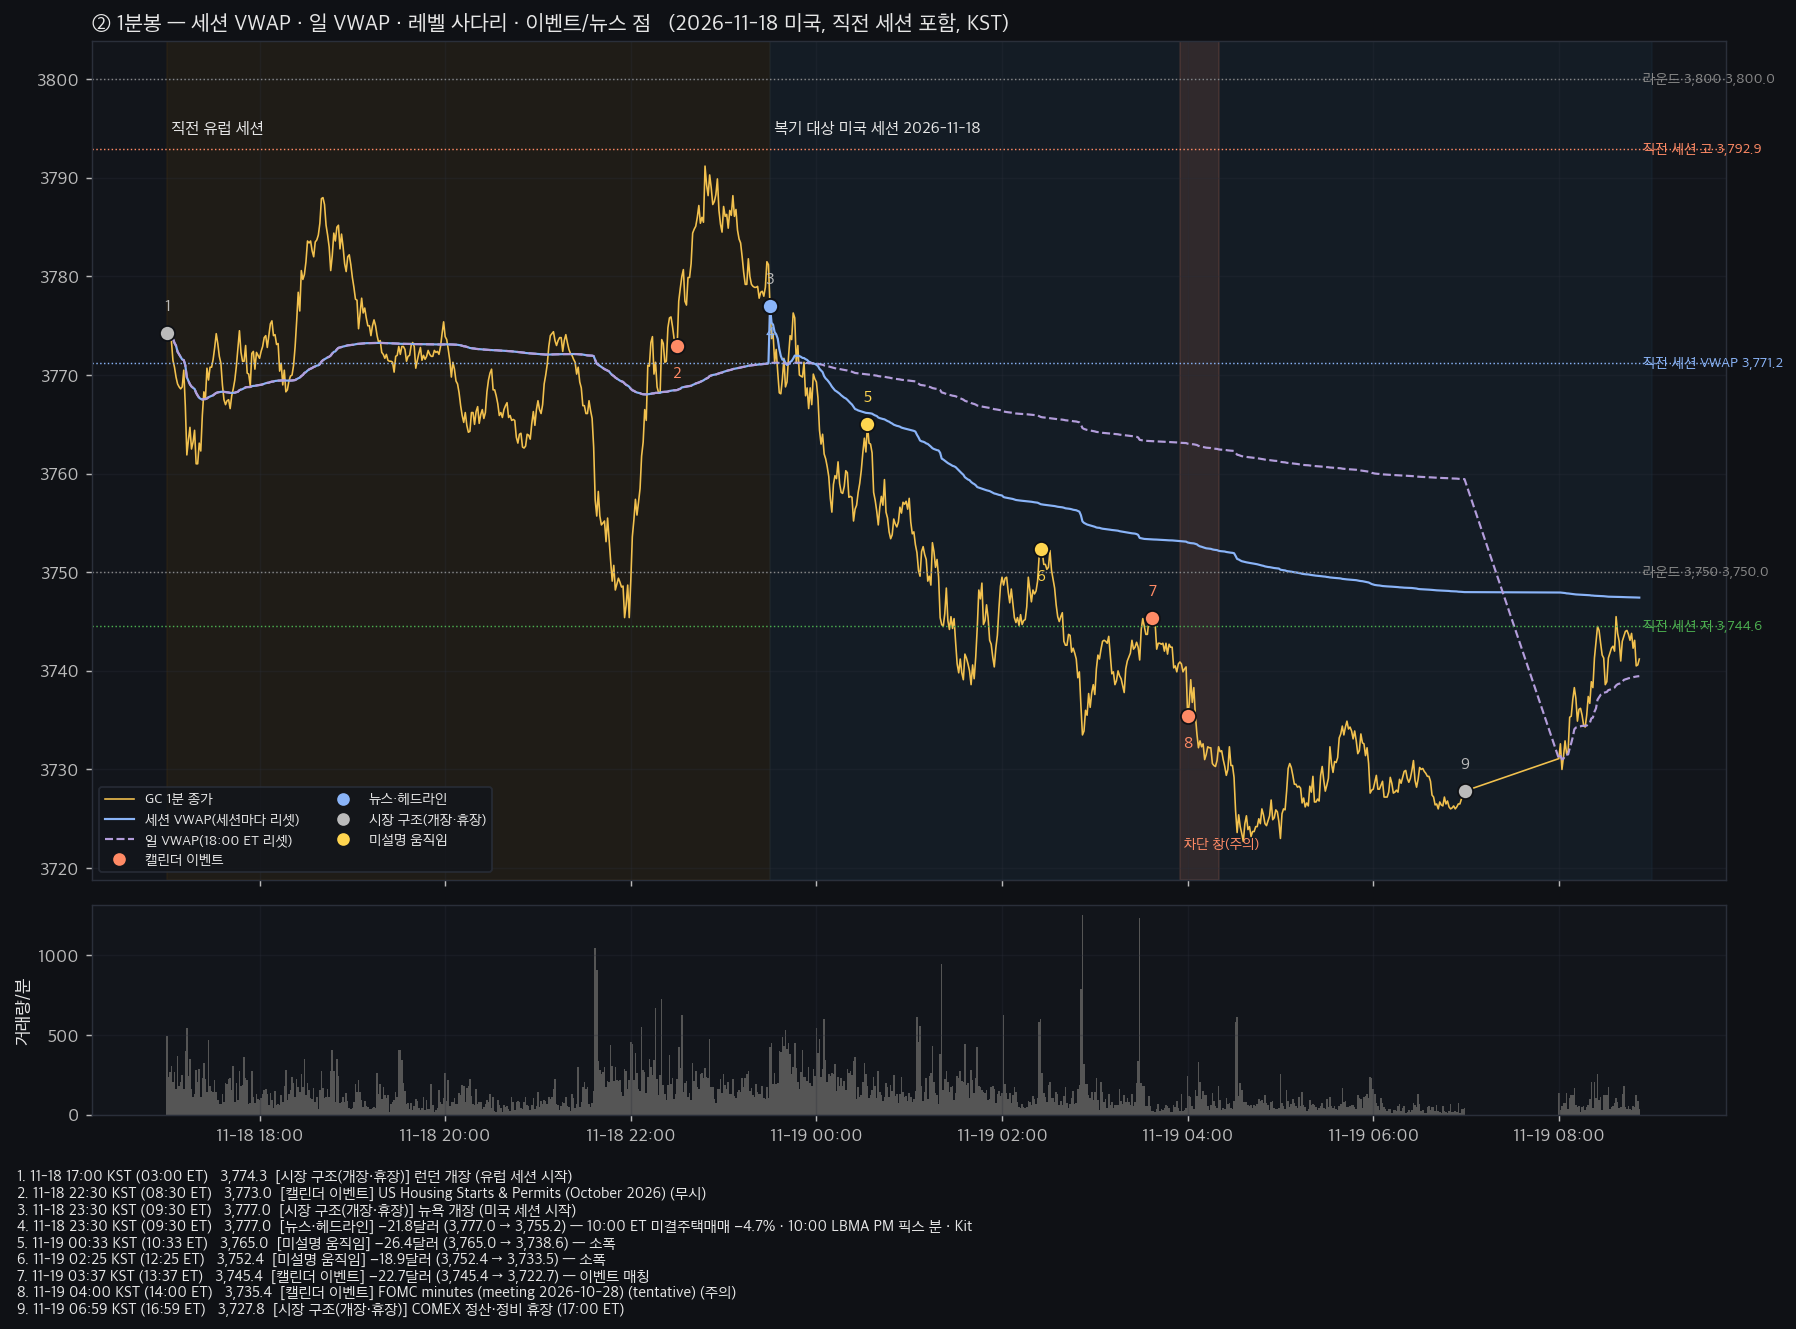
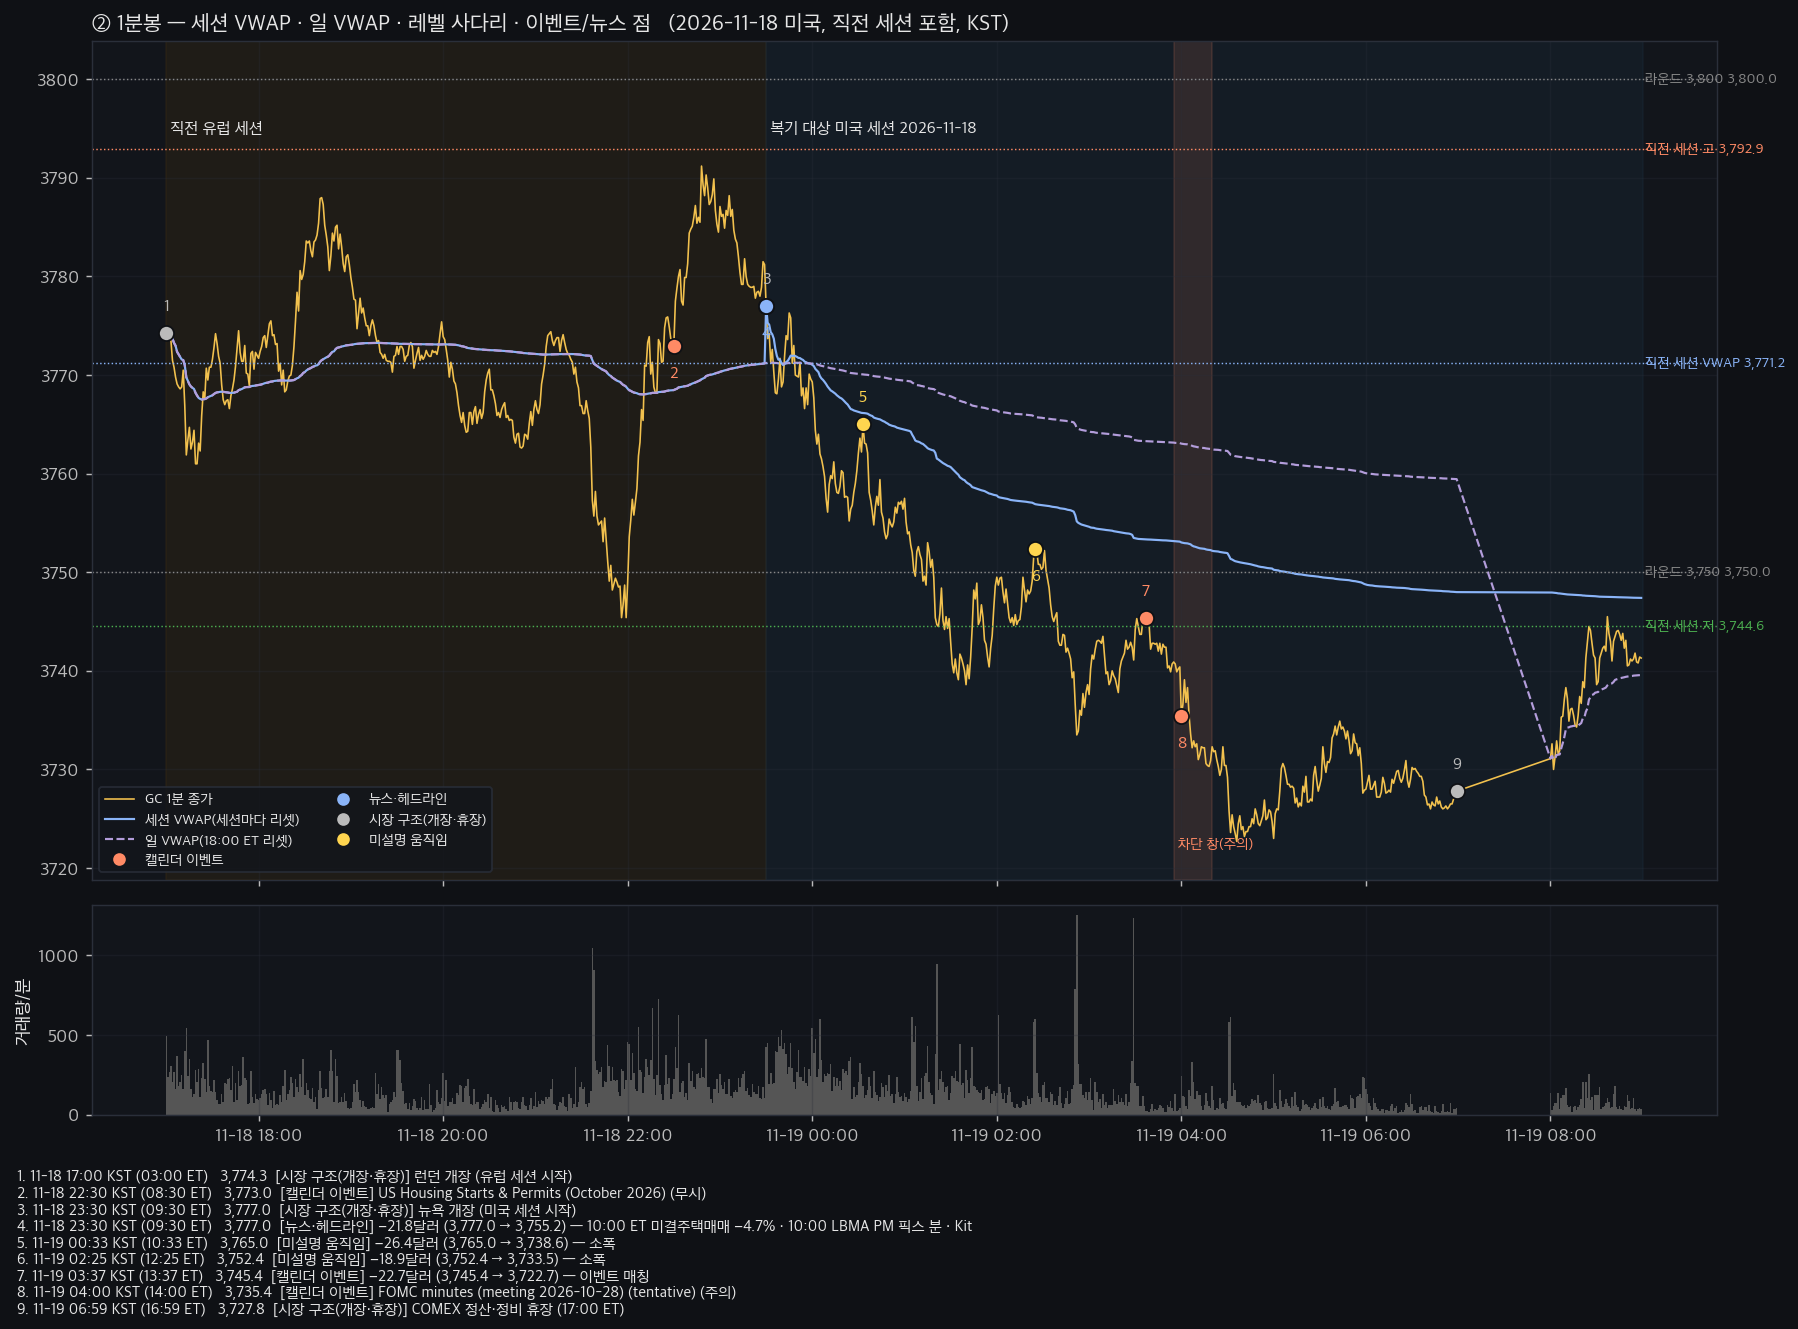
금–GVZ 상관 분석 + 동반 그림 우축 GVZ/VIX

diff --git a/analysis/2026-11-19_금–GVZ 상관관계.html b/analysis/2026-11-19_금–GVZ 상관관계.html
@@ -1,0 +1,38 @@
+<!doctype html><html lang="ko"><head><meta charset="utf-8"><meta name="viewport" content="width=device-width,initial-scale=1"><link rel="manifest" href="/gold-forecastor/manifest.webmanifest"><link rel="icon" type="image/png" sizes="192x192" href="/gold-forecastor/icon-192.png"><link rel="apple-touch-icon" href="/gold-forecastor/icon-192.png"><meta name="theme-color" content="#0f1115"><title>분석 2026-11-19_금–GVZ 상관관계</title><style>
+a.zoom img{max-width:100%;border:1px solid #2a2f3a;border-radius:6px;margin:6px 0;cursor:zoom-in}
+html{background:#0f1115}body{font-family:-apple-system,'Apple SD Gothic Neo','Malgun Gothic',sans-serif;margin:0 auto;max-width:960px;padding:12px 16px;color:#e6e6e6;line-height:1.5;background:#0f1115}
+h1{font-size:1.4em;color:#f2f2f2}.note h2{font-size:1.55em;border-bottom:2px solid #c9a227;padding-bottom:4px;margin-top:1.8em}h2{border-bottom:2px solid #c9a227;padding-bottom:4px;color:#f2f2f2}h3,h4{color:#f2f2f2}
+table{border-collapse:collapse;width:100%;font-size:.88em;display:block;overflow-x:auto;margin:.6em 0}
+th,td{border:1px solid #333a45;padding:4px 6px;text-align:left;vertical-align:top;background:#161920}th{background:#2a2614;color:#f2c14e}
+tr.ban td{background:#3a1c1c;color:#ffd6d6}tr.warn td{background:#3a2a12;color:#ffe2b8}tr.ign td{background:#1a1c21;color:#8d8d8d}
+.muted{color:#8d8d8d;font-size:.9em}.note{border:1px solid #2a2f3a;padding:8px 12px;border-radius:6px;overflow-x:auto;background:#12151b}
+a{color:#8ab4f8}a:visited{color:#b39ddb}code{background:#1f2430;color:#f2c14e;padding:0 3px;border-radius:3px}pre{background:#1f2430;padding:8px;border-radius:6px;overflow-x:auto}
+blockquote{border-left:3px solid #444c5c;margin:.6em 0;padding:.2em .9em;color:#cfd3da}hr{border:0;border-top:1px solid #2a2f3a}strong{color:#fff}
+details.co{margin:1em 0;border:1px solid #2a2f3a;border-left:4px solid #666;border-radius:6px;background:#161920;overflow:hidden}
+details.co>summary{cursor:pointer;font-weight:700;list-style:none;padding:.5em .9em;background:rgba(255,255,255,.06);font-size:1.02em;line-height:1.4;color:#f2f2f2}
+details.co>:not(summary){margin-left:.9em;margin-right:.9em}
+details.co ul{margin:.5em 0 .5em 1.1em;padding-left:.4em}details.co li{margin:.3em 0}details.co li>ul{margin-top:.15em}
+details.co p{margin:.7em 0;line-height:1.65}details.co>p:first-of-type{margin-top:.7em}details.co>p:last-of-type,details.co>ul:last-of-type,details.co>table:last-of-type{margin-bottom:.8em}
+details.co>summary::before{content:'▸ ';color:#999}details.co[open]>summary::before{content:'▾ '}
+details.co-warning{border-left-color:#d9822b}details.co-warning>summary{background:rgba(217,130,43,.18)}
+details.co-danger{border-left-color:#e5533d}details.co-danger>summary{background:rgba(229,83,61,.18)}
+details.co-info{border-left-color:#3a7bd5}details.co-info>summary{background:rgba(58,123,213,.18)}
+details.co-tip,details.co-success{border-left-color:#3cab6e}details.co-tip>summary,details.co-success>summary{background:rgba(60,171,110,.18)}
+</style></head><body><p><a href="../index.html">← 처음으로</a></p><h1>분석 — 2026-11-19_금–GVZ 상관관계</h1><div class="note"><h1>금–GVZ 상관관계 — VIX 대신 금 자체 변동성지수로 (Jason 11-19)</h1>
+<details class="co co-summary" open><summary>결론 한 줄</summary><p>GVZ(Cboe Gold Volatility Index, 금 ETF 옵션 내재변동성 30일)는 <strong>국면 따라 부호가 뒤집히는 지표</strong>다. 5년 전체는 +0.18(금이 오를 때 변동성도 오르는 2023~25 강세장 특성), <strong>2026-04 이후 음수로 전환, 최근 1개월 −0.72·60일 롤링 −0.49</strong> — 지금은 &quot;금 떨어질 때 공포 커지는&quot; 전형적 하락 국면. 음의 상관이 커 보인 건 VIX 가 아니라 <strong>GVZ 쪽에서 맞는 관찰</strong>이다. 단 선후행은 0 — GVZ 가 금을 예고하진 않고, 그날 금이 크게 움직이면(↑든 ↓든) GVZ 가 따라 오른다. GVZ 지금 28.0 = 1년 백분위 72%(1월 29일 고점 46.0 보다 훨씬 낮음) → 공포가 극단은 아니다.</p></details>
+<p>자료: Yahoo <code>^GVZ</code>(일봉 5년 n=1,253, 5분 60일 — 정규장 09:30~16:00 ET 하루 77봉), 금 = Yahoo <code>GC=F</code> 일봉 + Sierra 1분 리샘플(5분, 비중 97%). datacollect 쪽엔 GVZ 수집이 없어 Yahoo 사용(확인 11-19). 스크립트 <code>gold_vix_corr.py --sym ^GVZ</code>, 결과 <code>/Volumes/MyNas/Analysis/gold_events/xasset/gvz_*.csv</code>.</p>
+<h2>1. 상관계수 (금 일수익률 % vs GVZ 일변화율 %)</h2>
+<table><tr><th>구간</th><th>상관</th><th>n</th></tr><tr><td>5년</td><td><strong>+0.18</strong></td><td>1,253</td></tr><tr><td>1년</td><td>−0.15</td><td>252</td></tr><tr><td>6개월</td><td>−0.39</td><td>126</td></tr><tr><td>3개월</td><td>−0.47</td><td>63</td></tr><tr><td>1개월</td><td><strong>−0.72</strong></td><td>21</td></tr></table>
+<p>연도별: 2022 +0.03 · 2023 +0.50 · 2024 +0.37 · 2025 +0.51 · <strong>2026 −0.19</strong>. 3년 롤링 상관이 음수인 날은 18%뿐 — 음수 구간은 딱 두 번: 2022-08~12(금 1,750 횡보·하락기)와 <strong>2026-04-28~08-28(최저 −0.67, 금 4,608→4,530 조정기)</strong>, 그리고 <strong>11-12 이후 다시 −0.49</strong>. 즉 &quot;금 하락 → GVZ 상승&quot;은 조정 국면의 서명이고, 강세장에선 반대로 &quot;금 급등 → GVZ 상승&quot;이었다.</p>
+<p>선후행(일봉): GVZ 선행 1일 −0.04, 후행 1일 +0.06 → 예고력 없음. 5분봉 60일: 동시 −0.08, ±5분 −0.06/−0.01 → 분 단위론 거의 무관(GVZ 는 옵션 호가 기반이라 금 선물보다 느리고, 5분 ±3% 급변이 60일간 0건).</p>
+<p><a href="../viewer.html?img=gvz_1_daily.png" target="_blank" rel="noopener" class="zoom" title="클릭하면 새 창에서 확대·축소"><img src="../charts/gvz_1_daily.png" alt="gvz_1_daily.png" loading="lazy"></a><br><a href="../viewer.html?img=gvz_2_intraday.png" target="_blank" rel="noopener" class="zoom" title="클릭하면 새 창에서 확대·축소"><img src="../charts/gvz_2_intraday.png" alt="gvz_2_intraday.png" loading="lazy"></a></p>
+<h2>2. 쇼크 반응 (일봉 5년)</h2>
+<table><tr><th>조건</th><th>n</th><th>금 당일</th><th>당일 ↑</th><th>금 다음날</th><th>다음날 ↑</th></tr><tr><td>GVZ +10%</td><td>50</td><td>+0.39%</td><td>68%</td><td>+0.05%</td><td>58%</td></tr><tr><td>GVZ +20%</td><td>9</td><td>+1.10%</td><td>78%</td><td>+0.16%</td><td>33%</td></tr><tr><td>GVZ −10%</td><td>16</td><td>−1.14%</td><td>12%</td><td><strong>+1.22%</strong></td><td><strong>88%</strong></td></tr></table>
+<p>금 급변일 → GVZ: 금 −2% 이하 57일 GVZ 평균 +3.0%(상승 61%), <strong>금 +2% 이상 56일 GVZ +6.2%(상승 79%)</strong> — 5년 전체로는 금 <strong>급등일</strong>에 변동성이 더 뛰었다(강세장 데이터가 많아서). GVZ 급등일 당일 금 상승 68%도 같은 이유 — 지금 국면에 그대로 적용하면 틀린다.<br>유일하게 국면 무관하게 보이는 것: <strong>GVZ 가 하루 −10% 이상 꺼진 다음날 금 +1.2%(88%, n=16)</strong> — 변동성 붕괴 뒤 되돌림. n 이 적어 참고용.</p>
+<h2>3. 최근 15일 — 날짜별 5분 상관</h2>
+<table><tr><th>날짜(ET)</th><th>5분 상관</th><th>금 변화</th><th>GVZ 변화</th><th>비고</th></tr><tr><td>10-30</td><td>−0.77</td><td>−52.7$</td><td>+0.5</td><td>조정 시작</td></tr><tr><td>11-03</td><td>−0.66</td><td>−25.7</td><td>+0.2</td><td></td></tr><tr><td>11-05</td><td>−0.61</td><td>+10.9</td><td>+1.1</td><td>VIX +70% 날 — GVZ 도 +7%</td></tr><tr><td>11-12</td><td>−0.76</td><td>−20.7</td><td>+0.2</td><td>금 −2.9% 일봉, GVZ +7.0%</td></tr><tr><td>11-16</td><td>−0.62</td><td>−30.1</td><td>+0.3</td><td></td></tr><tr><td>11-17</td><td>+0.23</td><td>−20.0</td><td>+0.5</td><td>예외</td></tr><tr><td><strong>11-18</strong></td><td>−0.51</td><td>−43.7</td><td><strong>+0.9</strong></td><td>금 −3.2%, GVZ +6.0% → 28.0</td></tr></table>
+<p>15일 중 13일 음수, 중앙값 −0.57. VIX 의 같은 표(중앙값 −0.30)보다 뚜렷 — <strong>지금 금 분봉과 같이 움직이는 변동성지수는 VIX 가 아니라 GVZ</strong>.</p>
+<h2>4. VIX 와 비교</h2>
+<table><tr><th></th><th>VIX</th><th>GVZ</th></tr><tr><td>1년 상관</td><td>−0.21</td><td>−0.15</td></tr><tr><td>1개월</td><td>−0.09</td><td><strong>−0.72</strong></td></tr><tr><td>롤링 부호</td><td>72% 음수(꾸준히 약한 음)</td><td>18% 음수(국면 전환형)</td></tr><tr><td>5분 동시</td><td>−0.29</td><td>−0.08</td></tr><tr><td>무엇을 재나</td><td>주식 공포 → 금 유동성 매도 경로</td><td>금 자체 옵션 공포 — 방향이 아니라 <strong>크기</strong>의 예상</td></tr></table>
+<h2>5. 운용 반영 (제안 — 월간 규칙 갱신 때 결정)</h2>
+<ul><li><strong>국면 태그에 GVZ 60일 롤링 상관 부호 추가</strong>: 음수(지금) = 조정 국면(하락 시 변동성 확대, 반등은 짧음), 양수 = 강세 국면(급등 시 변동성 확대). 예측 노트 &#x27;편향&#x27; 표의 보조 근거.</li><li><strong>고저폭 예측에 GVZ 수준 사용</strong>: GVZ 28 ≈ 연율 28% → 일 변동 ≈ 28%/√252 = 1.76% ≈ 66달러(3,734 기준). 세션 고저폭 p50 의 교차검증값으로 병기(측정 분포가 1순위, GVZ 환산은 2순위).</li><li>GVZ 를 동반자산 레지스트리에 &quot;시험&quot;으로 등록(VIX 는 유지하되 원인 분류용으로 격하), 그림 ③ 우축은 GVZ 우선 — 11-19 반영.</li><li>쓰지 않는 것: GVZ 급등 → 금 방향(국면 따라 반대), GVZ 선행 가정(lag 0).</li><li>다음 검증: GVZ 일 −10% 다음날 반등(n=16)을 세션 단위로 — 백로그 대기 행.</li></ul></div></body></html>

diff --git a/reviews/2026-11-18_미국.html b/reviews/2026-11-18_미국.html
@@ -42,8 +42,8 @@ details.co-tip,details.co-success{border-left-color:#3cab6e}details.co-tip>summa
 <ul><li><strong>다리 1(−21.8)</strong>: 위 표 값 → 달러 몫 ≈0, 금리는 금 편.</li></ul>
 <ul><li><strong>결론</strong>: 아시아·유럽에 이어 달러 경로 없음 — 금속 동반 청산 주도.</li></ul></details>
 <p><a href="../viewer.html?img=2026-11-18_미국_3동반.png" target="_blank" rel="noopener" class="zoom" title="클릭하면 새 창에서 확대·축소"><img src="../charts/2026-11-18_미국_3동반.png" alt="2026-11-18_미국_3동반.png" loading="lazy"></a></p>
-<blockquote>5분봉, 직전 세션 시작=0%. 위: 금 vs 달러지수, 아래: 금 vs ES·NQ·브렌트유. 금은 Sierra 1분봉을 5분으로 묶은 것(11-19 13:10 수정 — 이전 그림은 Yahoo GC=F 가 10:42~18:00 ET 결측이라 직선으로 보였음). 달러지수·ES·NQ·브렌트는 Yahoo 라 30분 넘는 결측은 선을 끊어 표시(DXY 10:42~14:00 ET 구간 없음 → 그 시간대 달러 몫은 아래 분해에서도 (미확인)).</blockquote>
-<details class="co co-info"><summary>VIX(변동성지수) — 세션 중 24.3 → 고점 26.3(09:45 ET) → 마감 24.6 (+0.3pt, Yahoo ^VIX 5분, 11-19 추가)</summary><ul><li>개장 24.27 → 미결주택 분(10:05) 24.77 → 11:20 24.93 → 12:50 24.08 → 의사록 뒤(14:30) 24.45 → 16:00 24.62. 금이 −49달러 빠지는 동안 VIX 는 +2pt 안에서 왕복 — <strong>공포 급등(+15% 이상) 없음</strong>. 주식 패닉이 아니라 금속만의 청산이었다는 판단과 일치(전날 11-17 은 27.7 고점으로 더 높았음).</li><li>그림 ③ 위 패널 빨간 쇄선(우축).</li><li><strong>금–VIX 상관 분석(11-19)</strong> <a href="../analysis/2026-11-19_금–VIX 상관관계.html">전문</a>: 일봉 1년 −0.21·6개월 −0.30·5분 60일 −0.29, 선후행 0(동시 요인). 이날 5분 상관 −0.30 이지만 VIX 는 −0.9pt 하락 → 금 −49달러는 주식 공포가 아닌 금속 청산. 11월 금 하락 중 VIX 와 동행한 날은 11-05·16·17 뿐.</li></ul></details>
+<blockquote>5분봉, 직전 세션 시작=0%. 위: 금 vs 달러지수 · 우축 GVZ(빨강)·VIX(분홍), 아래: 금 vs ES·NQ·브렌트유. 금은 Sierra 1분봉을 5분으로 묶은 것(11-19 13:10 수정 — 이전 그림은 Yahoo GC=F 가 10:42~18:00 ET 결측이라 직선으로 보였음). 달러지수·ES·NQ·브렌트는 Yahoo 라 30분 넘는 결측은 선을 끊어 표시(DXY 10:42~14:00 ET 구간 없음 → 그 시간대 달러 몫은 아래 분해에서도 (미확인)).</blockquote>
+<details class="co co-info"><summary>VIX(변동성지수) — 세션 중 24.3 → 고점 26.3(09:45 ET) → 마감 24.6 (+0.3pt, Yahoo ^VIX 5분, 11-19 추가)</summary><ul><li>개장 24.27 → 미결주택 분(10:05) 24.77 → 11:20 24.93 → 12:50 24.08 → 의사록 뒤(14:30) 24.45 → 16:00 24.62. 금이 −49달러 빠지는 동안 VIX 는 +2pt 안에서 왕복 — <strong>공포 급등(+15% 이상) 없음</strong>. 주식 패닉이 아니라 금속만의 청산이었다는 판단과 일치(전날 11-17 은 27.7 고점으로 더 높았음).</li><li>그림 ③ 위 패널 빨간 쇄선(우축).</li><li><strong>금–VIX 상관 분석(11-19)</strong> <a href="../analysis/2026-11-19_금–VIX 상관관계.html">전문</a>: 일봉 1년 −0.21·6개월 −0.30·5분 60일 −0.29, 선후행 0(동시 요인). 이날 5분 상관 −0.30 이지만 VIX 는 −0.9pt 하락 → 금 −49달러는 주식 공포가 아닌 금속 청산. 11월 금 하락 중 VIX 와 동행한 날은 11-05·16·17 뿐.</li><li><strong>금–GVZ(금 변동성지수) 상관 분석(11-19)</strong> <a href="../analysis/2026-11-19_금–GVZ 상관관계.html">전문</a>: 이날 GVZ 26.5 → 28.0(+6.0%), 5분 상관 −0.51. 최근 1개월 −0.72·60일 롤링 −0.49 — 2026-04 이후 &#x27;금 하락 → 변동성 확대&#x27; 조정 국면 서명(5년 전체는 +0.18). 그림 ③ 우축 빨간 쇄선 = GVZ, 분홍 = VIX.</li></ul></details>
 <h2>■ 교훈 → 학습원장</h2>
 <details class="co co-info" open><summary>이번 복기가 원장에 남긴 것</summary><ul><li>검증: #7 ✗(시가가 A 트리거 위 13.3 → A 기본, 첫 1분이 고점) · #18 ✓(역풍 3 → −53.4, 크기 과소) · #10·#5·#8 해당 없음</li><li>새 교훈 행: #35(개장 전 1시간 +30 이상 반등으로 A 트리거 위 개장 + 신저가 국면 → A 기본 금지, B 되돌림 기본) · #36(신저가 나흘째 + 역풍 ≥3 → 종가−시가 중앙을 p25 로)</li><li>예측기록: 미국 6건(hit 4/miss 2) · 유럽 꼬리 확정</li></ul></details>
 <h2>■ 시나리오 · 레벨 · 이벤트 매트릭스 채점</h2>

diff --git a/index.html b/index.html
@@ -20,7 +20,7 @@ details.co-info{border-left-color:#3a7bd5}details.co-info>summary{background:rgb
 details.co-tip,details.co-success{border-left-color:#3cab6e}details.co-tip>summary,details.co-success>summary{background:rgba(60,171,110,.18)}
 </style></head><body><h1>Gold Forecastor — COMEX 금 세션 예측·복기</h1>
 <p style="font-size:1.1em"><a href="calendar.html"><b>📅 캘린더 (주간/월간)</b></a> &nbsp;·&nbsp; <a href="events/index.html"><b>📊 이벤트별 과거 영향 분석</b></a> (69개 가족, 발생 기록 35건)</p>
-<p class="muted">생성: 2026-11-19 15:52 KST · 2026-11-19 01:52 EST ET</p>
+<p class="muted">생성: 2026-11-19 18:28 KST · 2026-11-19 04:28 EST ET</p>
 <h2>오늘·내일 이벤트</h2><p class="muted">2026-11-19 ~ 2026-11-21 (KST)</p><table><tr><th>날짜(KST)</th><th>ET 시각</th><th>KST 시각</th><th>이벤트</th><th>등급</th><th>차단 창 (ET / KST)</th><th>과거 분석</th><th>출처</th></tr><tr class="warn"><td>2026-11-19</td><td>14:00</td><td>04:00</td><td>FOMC minutes (meeting 2026-10-28) (tentative)</td><td>주의</td><td>2026-11-18 13:55 ~ 2026-11-18 14:20<br>2026-11-19 03:55 ~ 2026-11-19 04:20</td><td><a href="events/FOMC minutes.html">프로필</a></td><td><a href="https://www.federalreserve.gov/monetarypolicy/fomccalendars.htm">링크</a></td></tr><tr class="warn"><td>2026-11-19</td><td>08:30</td><td>22:30</td><td>US Initial Jobless Claims (weekly)</td><td>주의</td><td>2026-11-19 08:25 ~ 2026-11-19 09:00<br>2026-11-19 22:25 ~ 2026-11-19 23:00</td><td><a href="events/US Initial Jobless Claims.html">프로필</a></td><td><a href="https://www.dol.gov/ui/data.pdf">링크</a></td></tr><tr class="warn"><td>2026-11-20</td><td>20:00</td><td>10:00</td><td>PBoC Loan Prime Rate (1y/5y)</td><td>주의</td><td>2026-11-19 19:55 ~ 2026-11-19 20:30<br>2026-11-20 09:55 ~ 2026-11-20 10:30</td><td><a href="events/PBoC LPR.html">프로필</a></td><td><a href="http://www.pbc.gov.cn/">링크</a></td></tr><tr class="ign"><td>2026-11-21</td><td>15:30</td><td>05:30</td><td>CFTC Commitments of Traders (GC positioning)</td><td>무시</td><td>2026-11-20 15:30 ~ 2026-11-20 15:45<br>2026-11-21 05:30 ~ 2026-11-21 05:45</td><td><a href="events/CFTC COT.html">프로필</a></td><td><a href="https://www.cftc.gov/MarketReports/CommitmentsofTraders/ReleaseSchedule/index.htm">링크</a></td></tr><tr class="ign"><td>2026-11-21</td><td>16:00</td><td>06:00</td><td>GLD/equity monthly options expiry</td><td>무시</td><td>2026-11-20 16:00 ~ 2026-11-20 16:15<br>2026-11-21 06:00 ~ 2026-11-21 06:15</td><td><a href="events/GLD options expiry.html">프로필</a></td><td><a href="https://www.cboe.com/about/hours/us-options/">링크</a></td></tr></table>
 <h2>지난 세션 복기 (최신)</h2><p class="muted"><a href="reviews/2026-11-19_아시아.html">2026-11-19_아시아</a></p><div class="note"><h1>2026-11-19 아시아 세션 복기 (19:00~03:00 ET / 09:00~17:00 KST)</h1>
 <p>작성 15:40 KST · <strong>부분 복기(~15:06 KST)</strong> · 틱 <code>GC_2026-11-19.p1520.ok</code> window_utc 11-18 22:00~11-19 06:15 · bars_in_window 427 · 마지막 봉 06:06 UTC · written_kst 15:18:09 · rewinds 0 · 세션 367봉 · 꼬리(15:07~17:00 KST)는 21:50 유럽 복기 ⓪ · 예측: <a href="forecasts/2026-11-19_아시아.html">2026-11-19_아시아</a></p>
